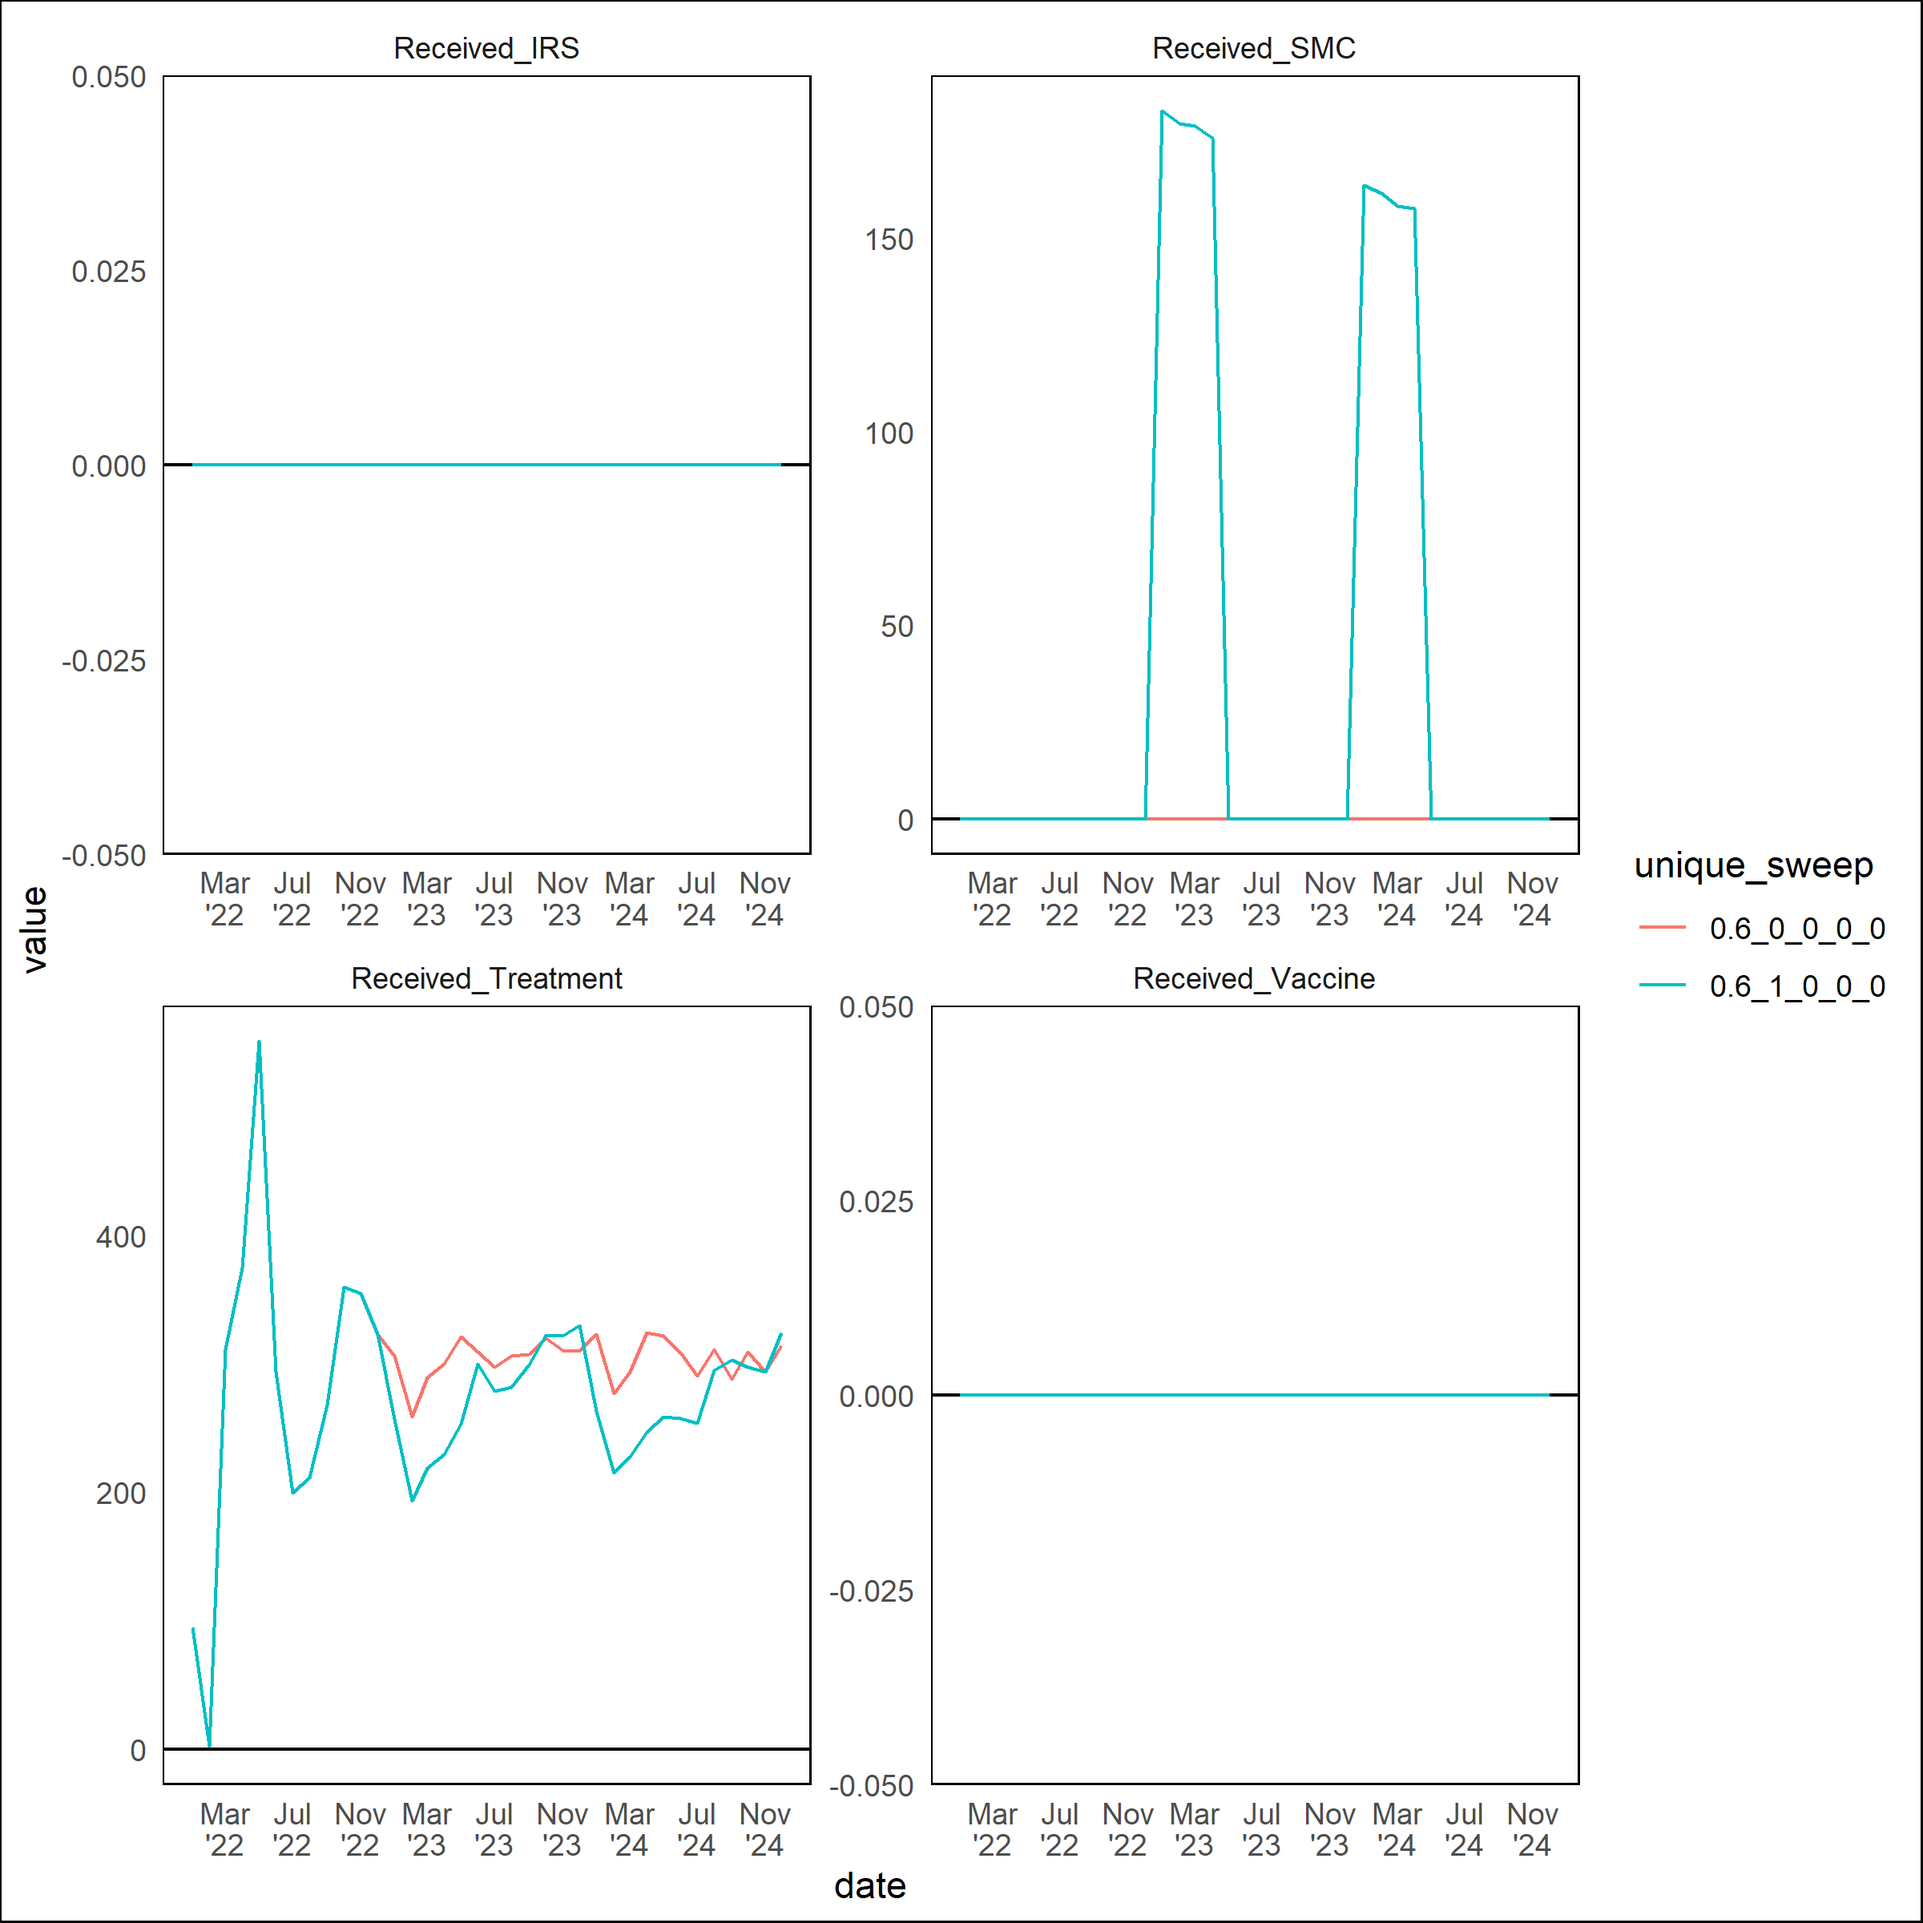
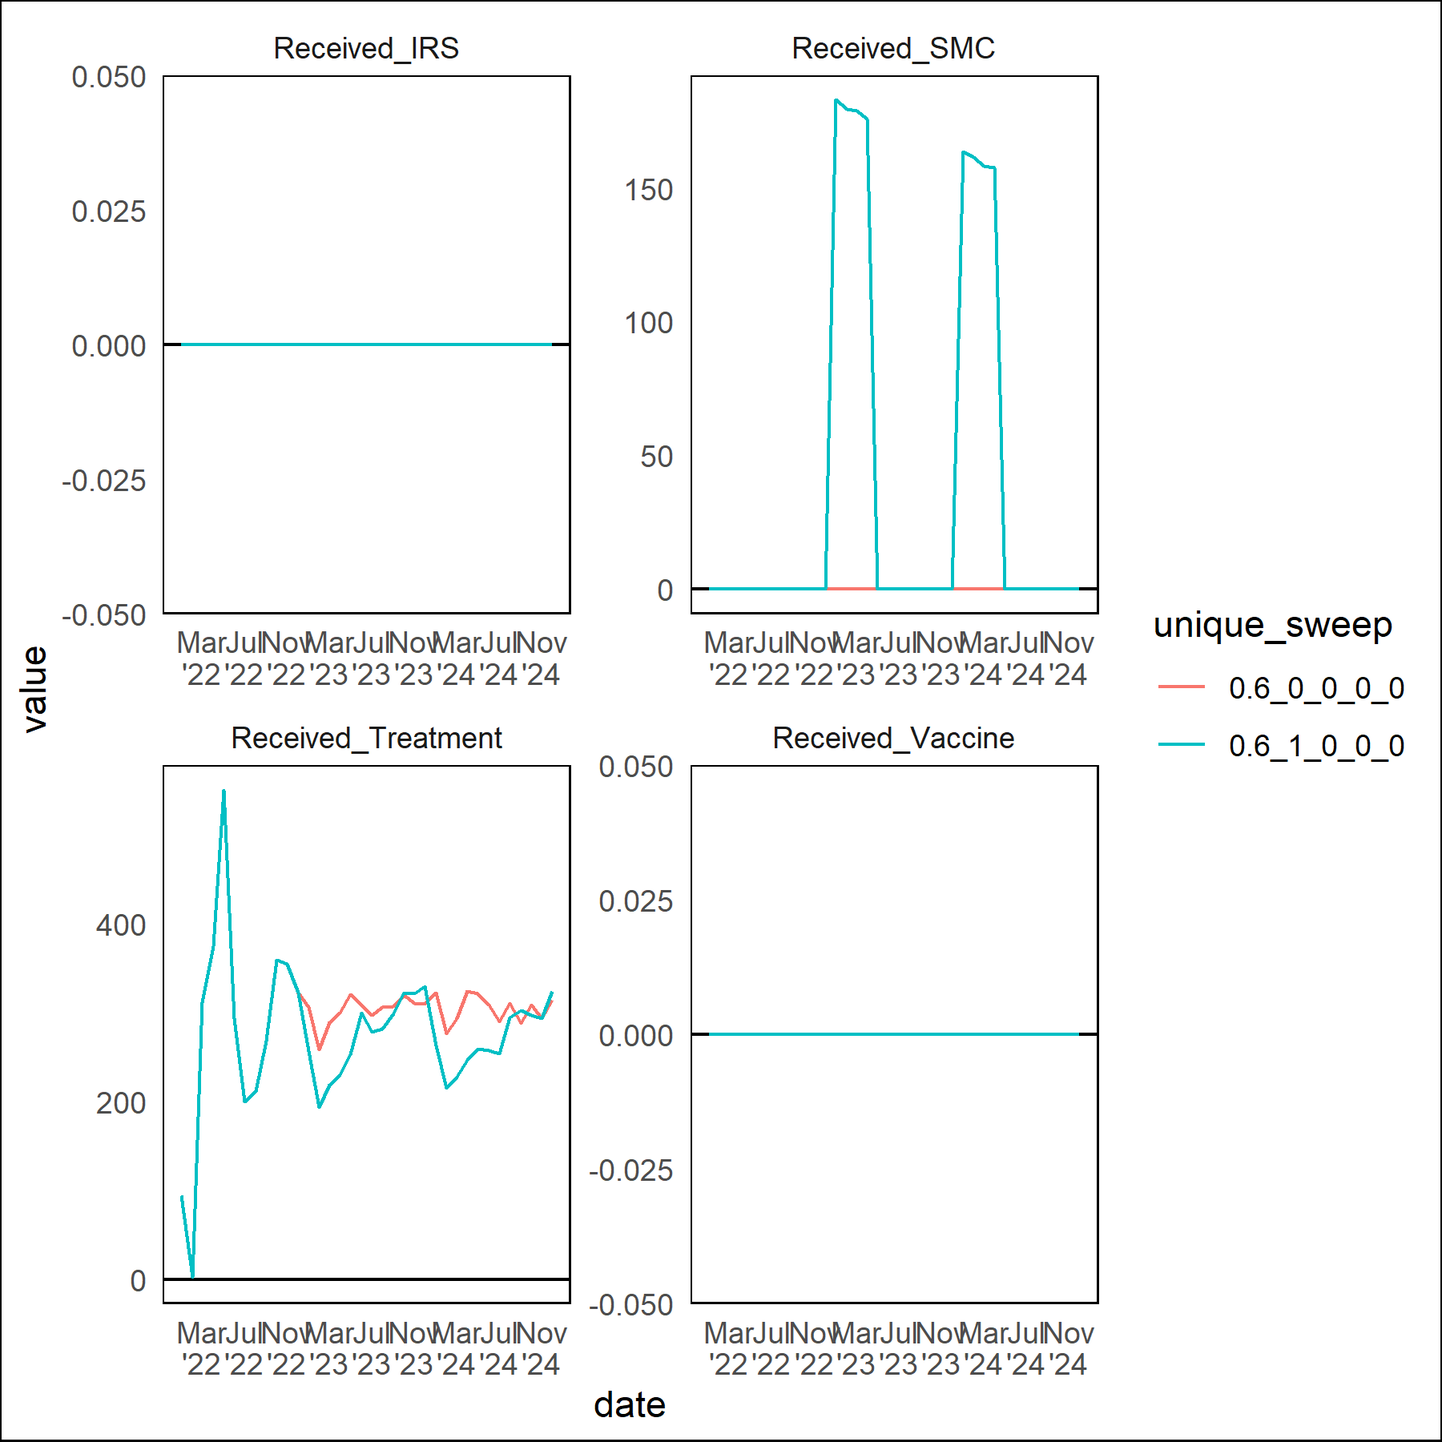
minor adjustments in week4 plotting layout

diff --git a/plot_exampleSim_w4.py b/plot_exampleSim_w4.py
@@ -11,6 +11,7 @@ import seaborn as sns
 mpl.rcParams['pdf.fonttype'] = 42
 palette = sns.color_palette("tab10")
 
+
 def plot_All_Age_Monthly_Cases(sim_dir, channels=None, scen_channels=None):
     df = pd.read_csv(os.path.join(sim_dir, 'All_Age_Monthly_Cases.csv'))
     df['date'] = pd.to_datetime(df['date'])
@@ -112,7 +113,7 @@ def plot_TransmissionReport(sim_dir, scen_channels=None, time_res='monthly', sel
         selected_year = '_all_years'
 
     df = pd.read_csv(os.path.join(sim_dir, f'{time_res}_transmission_report{selected_year}.csv'))
-    x_var ='Year'
+    x_var = 'Year'
     if 'date' in df.columns:
         df['date'] = pd.to_datetime(df['date'])
         x_var = 'date'
@@ -156,6 +157,8 @@ def plot_TransmissionReport(sim_dir, scen_channels=None, time_res='monthly', sel
         else:
             ax.set_ylim(0, np.max(df[channel]))
         ax.set_xlabel('Time')
+        if x_var == 'date':
+            ax.xaxis.set_major_formatter(mdates.DateFormatter('%m\n%y'))
 
         for si, scen in enumerate(df['unique_sweep'].unique()):
             sdf = df[df['unique_sweep'] == scen]
@@ -182,7 +185,7 @@ def plot_ReceivedCampaigns(sim_dir, scen_channels=None, channels=None):
 
     ## Automatically set variable to color by
     if scen_channels is None or len(scen_channels) > 1:
-        scen_channels = [x for x in df.columns if x not in output_channels + ['date','Run_Number']]
+        scen_channels = [x for x in df.columns if x not in output_channels + ['date', 'Run_Number']]
         df['unique_sweep'] = df[scen_channels].apply(lambda x: ",".join(x.astype(str)), axis=1)
         scen_channel = 'unique_sweep'
     else:
